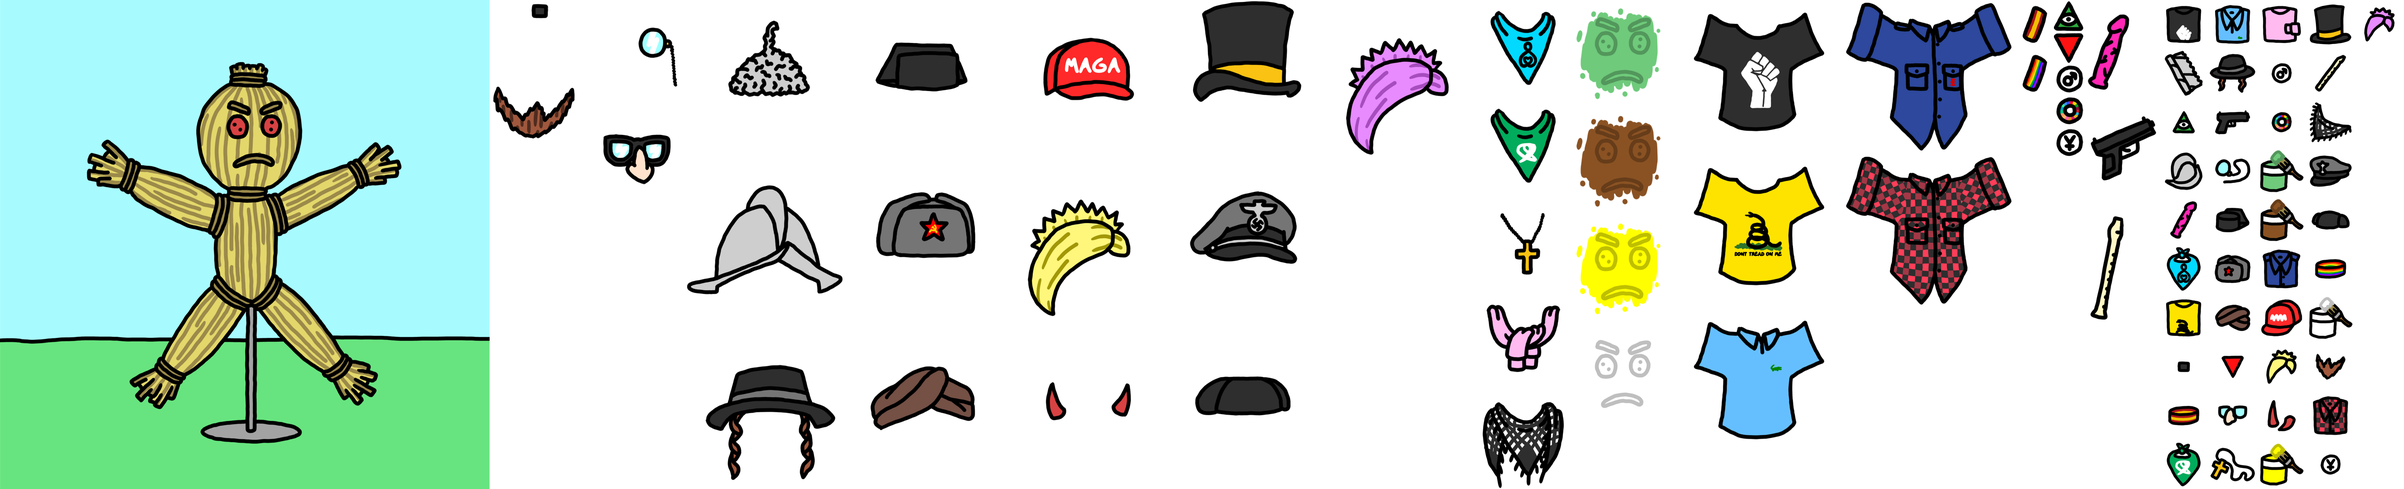
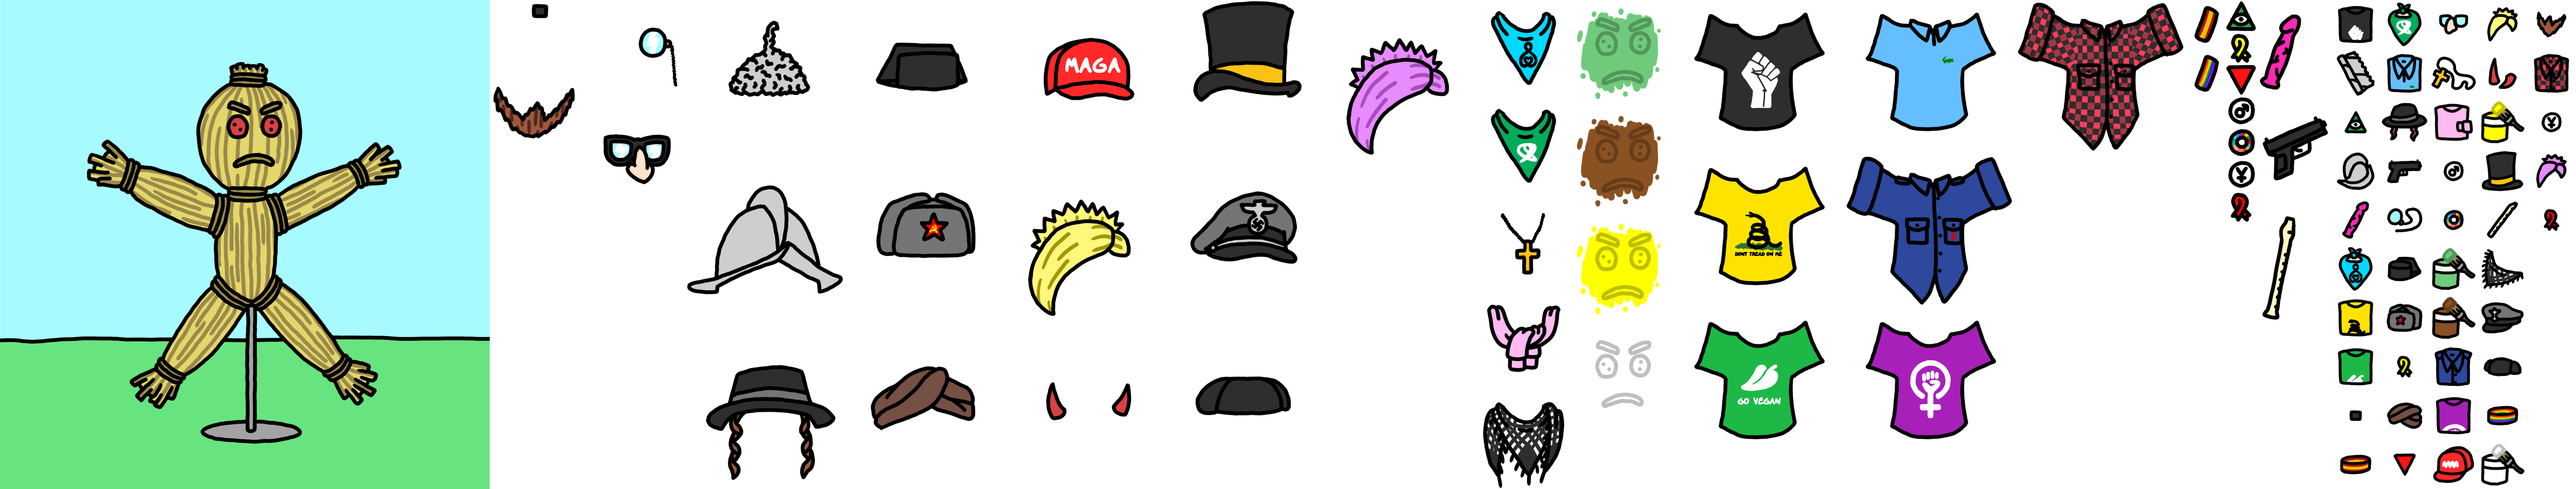
New accessories

diff --git a/docs/static/js/main.b52066cb.chunk.js b/docs/static/js/main.b52066cb.chunk.js
@@ -1,0 +1,2 @@
+(this.webpackJsonpstrawman=this.webpackJsonpstrawman||[]).push([[0],[,function(e){e.exports=JSON.parse('{"2030":{"en":"2030","es":"2030"},"loading":{"en":"loading","es":"cargando"},"make":{"en":"make your own","es":"crea tu propio"},"by":{"en":"by","es":"por"},"make_at":{"en":"make your own at","es":"crea el tuyo propio en"},"strawman":{"en":"straw man","es":"hombre de paja"},"download":{"en":"download","es":"descargar"},"accessories":{"en":"accessories","es":"accesorios"},"head":{"en":"head","es":"cabeza"},"color":{"en":"skin color","es":"tono de piel"},"glasses":{"en":"glasses","es":"gafas"},"neck":{"en":"neck","es":"cuello"},"bracelets":{"en":"bracelets","es":"pulseras"},"badges":{"en":"badges","es":"pines"},"hand":{"en":"hand","es":"mano"},"chest":{"en":"chest","es":"pecho"},"mouth":{"en":"mouth","es":"boca"},"spain":{"en":"Spain","es":"Espa\xf1a"},"lgbt":{"en":"LGBTIQ+","es":"LGBTIQ+"},"illuminati":{"en":"Illuminati","es":"Illuminati"},"yunque":{"en":"El Yunque","es":"El Yunque"},"male":{"en":"male","es":"hombre"},"red_triangle":{"en":"red triangle","es":"tri\xe1ngulo rojo"},"red_ribbon":{"en":"red ribbon","es":"lazo rojo"},"yellow_ribbon":{"en":"yellow ribbon","es":"lazo amarillo"},"prochoice":{"en":"pro-choice bandana","es":"pa\xf1uelo abortero"},"prolife":{"en":"pro-life bandana","es":"pa\xf1uelo provida"},"cross":{"en":"cross necklace","es":"colgante con cruz"},"nose":{"en":"glasses with nose","es":"gafas con nariz"},"monocle":{"en":"monocle","es":"mon\xf3culo"},"green":{"en":"green","es":"verde"},"white":{"en":"white","es":"blanco"},"yellow":{"en":"yellow","es":"amarillo"},"brown":{"en":"brown","es":"marr\xf3n"},"morion":{"en":"morion","es":"morri\xf3n"},"turban":{"en":"turban","es":"turbante"},"sideburns":{"en":"hat with sideburns","es":"gorro con patillas"},"commie":{"en":"communist hat","es":"gorro comunista"},"top":{"en":"top hat","es":"chistera"},"nazi":{"en":"nazi hat","es":"gorra nazi"},"maga":{"en":"MAGA hat","es":"gorra MAGA"},"tricornio":{"en":"tricornio","es":"tricornio"},"montera":{"en":"montera","es":"montera"},"pink_hair":{"en":"pink hair","es":"pelo rosa"},"blond_hair":{"en":"blond hair","es":"pelo rubio"},"horns":{"en":"horns","es":"cuernos"},"keffiyeh":{"en":"Palestinian keffiyeh","es":"palestina"},"sweater":{"en":"sweater","es":"jersey"},"tinfoil":{"en":"tinfoil","es":"papel de aluminio"},"flute":{"en":"flute","es":"flauta"},"dildo":{"en":"dildo","es":"consolador"},"gun":{"en":"gun","es":"pistola"},"blue_shirt":{"en":"blue shirt","es":"camisa azul"},"lumberjack":{"en":"lumberjack shirt","es":"camisa le\xf1ador"},"blm":{"en":"BLM T-shirt","es":"camiseta BLM"},"gadsden":{"en":"Gadsden T-shirt","es":"camiseta Gadsden"},"polo":{"en":"polo shirt","es":"polo"},"vegan":{"en":"vegan T-shirt","es":"camiseta vegana"},"feminism":{"en":"feminist T-shirt","es":"camiseta feminista"},"chaplin":{"en":"Chaplin moustache","es":"bigote de Chaplin"},"beard":{"en":"beard","es":"barba"}}')},,,,,,,,,function(e){e.exports=JSON.parse('{"head":{"turban":{"w":325,"x":1725,"t":{"w":100,"x":4860,"h":100,"y":800},"h":330,"y":660},"horns":{"w":325,"x":2050,"t":{"w":100,"x":5060,"h":100,"y":100},"h":330,"y":660},"montera":{"w":325,"x":2375,"t":{"w":100,"x":5060,"h":100,"y":700},"h":330,"y":660},"pink_hair":{"w":325,"x":2700,"t":{"w":100,"x":5160,"h":100,"y":300},"h":330,"y":0},"tricornio":{"w":325,"x":1725,"t":{"w":100,"x":4860,"h":100,"y":500},"h":330,"y":0},"commie":{"w":325,"x":1725,"t":{"w":100,"x":4860,"h":100,"y":600},"h":330,"y":330},"sideburns":{"w":325,"x":1400,"t":{"w":100,"x":4860,"h":100,"y":200},"h":330,"y":660},"nazi":{"w":325,"x":2375,"t":{"w":100,"x":5060,"h":100,"y":600},"h":330,"y":330},"blond_hair":{"w":325,"x":2050,"t":{"w":100,"x":5060,"h":100,"y":0},"h":330,"y":330},"top":{"w":325,"x":2375,"t":{"w":100,"x":5060,"h":100,"y":300},"h":330,"y":0},"tinfoil":{"w":325,"x":1400,"t":{"w":100,"x":4760,"h":100,"y":100},"h":330,"y":0},"morion":{"w":325,"x":1400,"t":{"w":100,"x":4760,"h":100,"y":300},"h":330,"y":330},"maga":{"w":325,"x":2050,"t":{"w":100,"x":4960,"h":100,"y":900},"h":330,"y":0}},"color":{"yellow":{"w":220,"x":3195,"t":{"w":100,"x":5060,"h":100,"y":200},"h":220,"y":440},"brown":{"w":220,"x":3195,"t":{"w":100,"x":4960,"h":100,"y":600},"h":220,"y":220},"white":{"w":220,"x":3195,"t":{"w":100,"x":5060,"h":100,"y":900},"h":220,"y":660},"green":{"w":220,"x":3195,"t":{"w":100,"x":4960,"h":100,"y":500},"h":220,"y":0}},"hand":{"gun":{"w":150,"x":4610,"t":{"w":100,"x":4860,"h":100,"y":300},"h":220,"y":220},"dildo":{"w":150,"x":4610,"t":{"w":100,"x":4760,"h":100,"y":400},"h":220,"y":0},"flute":{"w":150,"x":4610,"t":{"w":100,"x":5060,"h":100,"y":400},"h":220,"y":440}},"glasses":{"monocle":{"w":220,"x":1180,"t":{"w":100,"x":4860,"h":100,"y":400},"h":220,"y":0},"nose":{"w":220,"x":1180,"t":{"w":100,"x":4960,"h":100,"y":0},"h":220,"y":220}},"neck":{"keffiyeh":{"w":170,"x":3025,"t":{"w":100,"x":5060,"h":100,"y":500},"h":200,"y":800},"sweater":{"w":170,"x":3025,"t":{"w":100,"x":4960,"h":100,"y":200},"h":200,"y":600},"cross":{"w":170,"x":3025,"t":{"w":100,"x":4960,"h":100,"y":100},"h":200,"y":400},"prolife":{"w":170,"x":3025,"t":{"w":100,"x":4760,"h":100,"y":500},"h":200,"y":0},"prochoice":{"w":170,"x":3025,"t":{"w":100,"x":4860,"h":100,"y":0},"h":200,"y":200}},"mouth":{"beard":{"w":180,"x":1000,"t":{"w":100,"x":5160,"h":100,"y":0},"h":145,"y":145},"chaplin":{"w":180,"x":1000,"t":{"w":100,"x":4760,"h":100,"y":800},"h":145,"y":0}},"strawman":{"w":1000,"x":0,"h":1000,"y":0},"chest":{"blm":{"w":350,"x":3415,"t":{"w":100,"x":4760,"h":100,"y":0},"h":315,"y":0},"blue_shirt":{"w":350,"x":3765,"t":{"w":100,"x":4960,"h":100,"y":700},"h":315,"y":315},"feminism":{"w":350,"x":3765,"t":{"w":100,"x":4960,"h":100,"y":800},"h":315,"y":630},"gadsden":{"w":350,"x":3415,"t":{"w":100,"x":4760,"h":100,"y":600},"h":315,"y":315},"vegan":{"w":350,"x":3415,"t":{"w":100,"x":4760,"h":100,"y":700},"h":315,"y":630},"lumberjack":{"w":350,"x":4115,"t":{"w":100,"x":5160,"h":100,"y":100},"h":315,"y":0},"polo":{"w":350,"x":3765,"t":{"w":100,"x":4860,"h":100,"y":100},"h":315,"y":0}},"badges":{"2030":{"w":65,"x":4545,"t":{"w":100,"x":4960,"h":100,"y":400},"h":65,"y":260},"male":{"w":65,"x":4545,"t":{"w":100,"x":4960,"h":100,"y":300},"h":65,"y":195},"red_triangle":{"w":65,"x":4545,"t":{"w":100,"x":4860,"h":100,"y":900},"h":65,"y":130},"yellow_ribbon":{"w":65,"x":4545,"t":{"w":100,"x":4860,"h":100,"y":700},"h":65,"y":65},"red_ribbon":{"w":65,"x":4545,"t":{"w":100,"x":5160,"h":100,"y":400},"h":65,"y":390},"illuminati":{"w":65,"x":4545,"t":{"w":100,"x":4760,"h":100,"y":200},"h":65,"y":0},"yunque":{"w":65,"x":4545,"t":{"w":100,"x":5160,"h":100,"y":200},"h":65,"y":325}},"bracelets":{"lgbt":{"w":80,"x":4465,"t":{"w":100,"x":5060,"h":100,"y":800},"h":100,"y":100},"spain":{"w":80,"x":4465,"t":{"w":100,"x":4760,"h":100,"y":900},"h":100,"y":0}}}')},,,function(e){e.exports=JSON.parse('{"head":{"x":340,"y":10,"w":325,"h":330,"z":8},"color":{"x":400,"y":170,"w":220,"h":220,"z":5},"mouth":{"x":420,"y":280,"w":180,"h":145,"z":6},"glasses":{"x":400,"y":170,"w":220,"h":220,"z":7},"neck":{"x":420,"y":355,"w":170,"h":200,"z":1},"bracelets":{"x":225,"y":310,"w":80,"h":100,"z":2},"badges":{"x":515,"y":395,"w":65,"h":65,"z":3},"hand":{"x":715,"y":230,"w":150,"h":220,"z":4},"chest":{"x":330,"y":345,"w":350,"h":315,"z":0}}')},,,,,,function(e,t,a){},function(e,t,a){},function(e,t,a){},,function(e,t,a){},function(e,t,a){},function(e,t,a){"use strict";a.r(t);var n=a(2),s=a.n(n),r=a(11),i=a.n(r),o=(a(19),a(3)),h=a(4),c=a(6),l=a(5),d=(a(20),a(14)),w=a(12),p=(a(21),function e(t){Object(o.a)(this,e),this.x=t.x,this.y=t.y,this.w=t.w,this.h=t.h}),u=function e(t,a,n,s){Object(o.a)(this,e),this.selected=!1,this.name=t,this.category=a,this.origin=new p(n),this.destination=new p(s),this.order=s.z,this.thumbnail=new p(n.t)},y=a(1),m=a(0),x=function(e){Object(c.a)(a,e);var t=Object(l.a)(a);function a(e){var s;return Object(o.a)(this,a),(s=t.call(this,e)).side=s.props.strawman.h,s.canvas=Object(n.createRef)(),s.maxScaleFactor=.7,s.state={scaleFactor:s.getScaleFactor()},s}return Object(h.a)(a,[{key:"componentDidMount",value:function(){var e=this;window.addEventListener("resize",(function(){e.setState({scaleFactor:e.getScaleFactor()})})),this.drawCanvas()}},{key:"componentDidUpdate",value:function(){this.drawCanvas()}},{key:"render",value:function(){var e=this;return Object(m.jsxs)("div",{className:"canvas-component",children:[Object(m.jsxs)("h1",{children:[Object(m.jsx)("div",{children:y.make[this.props.lang].capitalize()}),Object(m.jsx)("div",{children:y.strawman[this.props.lang].toUpperCase()}),Object(m.jsxs)("div",{children:[y.by[this.props.lang]," ",Object(m.jsx)("a",{href:"/",target:"_blank",children:"progredemente"})]})]}),Object(m.jsx)("canvas",{ref:this.canvas,width:this.side*this.state.scaleFactor,height:this.side*this.state.scaleFactor}),Object(m.jsx)("div",{className:"download",onClick:function(){e.downloadImage()},children:y.download[this.props.lang].capitalize()})]})}},{key:"drawCanvas",value:function(){var e=this.getTempCanvas(),t=this.canvas.current.getContext("2d");t.clearRect(0,0,this.side*this.state.scaleFactor,this.side*this.state.scaleFactor),t.drawImage(e,0,0,this.side*this.state.scaleFactor,this.side*this.state.scaleFactor)}},{key:"getTempCanvas",value:function(){var e=document.createElement("canvas");e.width=this.side,e.height=this.side;var t=e.getContext("2d");return this.drawImage(this.props.strawman,this.props.strawman,t),this.drawWardrobe(this.props.wardrobe,t),this.drawUrl(t),e}},{key:"drawWardrobe",value:function(e,t){var a,n=Object(w.a)(this.getClothes(e).sort((function(e,t){return e.order-t.order})));try{for(n.s();!(a=n.n()).done;){var s=a.value;this.drawImage(s.origin,s.destination,t)}}catch(r){n.e(r)}finally{n.f()}}},{key:"getClothes",value:function(e){var t=[];for(var a in e)e[a]instanceof u?e[a].selected&&t.push(e[a]):t.push.apply(t,Object(d.a)(this.getClothes(e[a])));return t}},{key:"drawImage",value:function(e,t,a){a.drawImage(this.props.img,e.x,e.y,e.w,e.h,t.x,t.y,t.w,t.h)}},{key:"drawUrl",value:function(e){e.font="40px ComicTypo",e.textAlign="center",e.globalAlpha=.25,e.fillText(y.make_at[this.props.lang].capitalize(),this.side/2,this.side-60),e.fillText("https://progredemente.com/strawman",this.side/2,this.side-20)}},{key:"downloadImage",value:function(){var e=document.createElement("a");e.download="strawman.png",this.getTempCanvas().toBlob((function(t){var a=URL.createObjectURL(t);e.href=a,e.click()}))}},{key:"getScaleFactor",value:function(){return window.innerWidth<this.side*this.maxScaleFactor?window.innerWidth/this.side:this.maxScaleFactor}}]),a}(n.Component),b=(a(23),a(24),function(e){Object(c.a)(a,e);var t=Object(l.a)(a);function a(){return Object(o.a)(this,a),t.apply(this,arguments)}return Object(h.a)(a,[{key:"render",value:function(){var e=this;return Object(m.jsxs)("div",{className:"garment".concat(this.props.garment.selected?" selected":""),onClick:function(){e.props.selectGarment(e.props.garment)},children:[Object(m.jsx)("img",{src:"./merge.png",style:{"--x":"".concat(this.props.garment.thumbnail.x,"px"),"--y":"".concat(this.props.garment.thumbnail.y,"px"),"--w":"".concat(this.props.garment.thumbnail.w,"px"),"--h":"".concat(this.props.garment.thumbnail.h,"px")},alt:y[this.props.garment.name][this.props.lang]}),Object(m.jsx)("figcaption",{children:y[this.props.garment.name][this.props.lang]})]})}}]),a}(n.Component)),g=b,f=function(e){Object(c.a)(a,e);var t=Object(l.a)(a);function a(){return Object(o.a)(this,a),t.apply(this,arguments)}return Object(h.a)(a,[{key:"render",value:function(){var e=this;return Object(m.jsxs)("div",{className:"wardrobe",children:[Object(m.jsx)("h1",{children:y.accessories[this.props.lang].capitalize()}),Object.keys(this.props.wardrobe).map((function(t){return Object(m.jsxs)("div",{className:"category",children:[Object(m.jsx)("span",{children:y[t][e.props.lang].capitalize()}),Object(m.jsx)("div",{className:"content",children:Object.keys(e.props.wardrobe[t]).map((function(a){return Object(m.jsx)(g,{garment:e.props.wardrobe[t][a],selectGarment:e.props.selectGarment,lang:e.props.lang},a)}))})]},t)}))]})}}]),a}(n.Component),j=f,v=a(10),O=a(13),k=function(e){Object(c.a)(a,e);var t=Object(l.a)(a);function a(e){var n,s;Object(o.a)(this,a),(n=t.call(this,e)).selectGarment=function(e){if(!e.selected)for(var t in e.category){var a=e.category[t];a!==e&&(a.selected=!1)}e.selected=!e.selected,n.setState({})};try{s=navigator.language.toLowerCase().split("-")[0]}catch(r){}return["en","es"].includes(s)||(s="en"),n.state={wardrobe:n.getWardrobe(v,O),lang:s,loaded:!1},n}return Object(h.a)(a,[{key:"componentDidMount",value:function(){var e=this;this.img=new Image,this.img.src="./merge.png",this.img.onload=function(){e.setState({loaded:!0})}}},{key:"getWardrobe",value:function(e,t){var a={};for(var n in e)if("strawman"!==n)for(var s in a[n]={},e[n])a[n][s]=new u(s,a[n],e[n][s],t[n]);return a}},{key:"render",value:function(){return Object(m.jsxs)(m.Fragment,{children:[this.state.loaded&&Object(m.jsxs)("div",{className:"app",children:[Object(m.jsx)(x,{wardrobe:this.state.wardrobe,strawman:new p(v.strawman),lang:this.state.lang,img:this.img}),Object(m.jsx)(j,{wardrobe:this.state.wardrobe,selectGarment:this.selectGarment,lang:this.state.lang})]}),!this.state.loaded&&Object(m.jsxs)("div",{className:"loading",children:[Object(m.jsx)("img",{src:"./favicon.png",alt:y.loading[this.state.lang]}),y.loading[this.state.lang]]})]})}}]),a}(n.Component),z=function(e){e&&e instanceof Function&&a.e(3).then(a.bind(null,26)).then((function(t){var a=t.getCLS,n=t.getFID,s=t.getFCP,r=t.getLCP,i=t.getTTFB;a(e),n(e),s(e),r(e),i(e)}))};String.prototype.capitalize=function(){return this[0].toUpperCase()+this.substr(1,this.length)},i.a.render(Object(m.jsx)(s.a.StrictMode,{children:Object(m.jsx)(k,{})}),document.getElementById("root")),z()}],[[25,1,2]]]);
+//# sourceMappingURL=main.b52066cb.chunk.js.map

diff --git a/docs/index.html b/docs/index.html
@@ -1,1 +1,1 @@
-<!doctype html><html lang="en"><head><meta charset="utf-8"/><link rel="icon" href="./favicon.png"/><meta name="viewport" content="width=device-width,initial-scale=1"/><meta name="theme-color" content="#000000"/><meta name="description" content="Web site created using create-react-app"/><link rel="apple-touch-icon" href="./logo192.png"/><link rel="manifest" href="./manifest.json"/><title>Straw man</title><link href="./static/css/main.2544bd09.chunk.css" rel="stylesheet"></head><body><noscript>You need to enable JavaScript to run this app.</noscript><div id="root"></div><script>!function(e){function r(r){for(var n,a,i=r[0],c=r[1],l=r[2],s=0,p=[];s<i.length;s++)a=i[s],Object.prototype.hasOwnProperty.call(o,a)&&o[a]&&p.push(o[a][0]),o[a]=0;for(n in c)Object.prototype.hasOwnProperty.call(c,n)&&(e[n]=c[n]);for(f&&f(r);p.length;)p.shift()();return u.push.apply(u,l||[]),t()}function t(){for(var e,r=0;r<u.length;r++){for(var t=u[r],n=!0,i=1;i<t.length;i++){var c=t[i];0!==o[c]&&(n=!1)}n&&(u.splice(r--,1),e=a(a.s=t[0]))}return e}var n={},o={1:0},u=[];function a(r){if(n[r])return n[r].exports;var t=n[r]={i:r,l:!1,exports:{}};return e[r].call(t.exports,t,t.exports,a),t.l=!0,t.exports}a.e=function(e){var r=[],t=o[e];if(0!==t)if(t)r.push(t[2]);else{var n=new Promise((function(r,n){t=o[e]=[r,n]}));r.push(t[2]=n);var u,i=document.createElement("script");i.charset="utf-8",i.timeout=120,a.nc&&i.setAttribute("nonce",a.nc),i.src=function(e){return a.p+"static/js/"+({}[e]||e)+"."+{3:"6449b234"}[e]+".chunk.js"}(e);var c=new Error;u=function(r){i.onerror=i.onload=null,clearTimeout(l);var t=o[e];if(0!==t){if(t){var n=r&&("load"===r.type?"missing":r.type),u=r&&r.target&&r.target.src;c.message="Loading chunk "+e+" failed.\n("+n+": "+u+")",c.name="ChunkLoadError",c.type=n,c.request=u,t[1](c)}o[e]=void 0}};var l=setTimeout((function(){u({type:"timeout",target:i})}),12e4);i.onerror=i.onload=u,document.head.appendChild(i)}return Promise.all(r)},a.m=e,a.c=n,a.d=function(e,r,t){a.o(e,r)||Object.defineProperty(e,r,{enumerable:!0,get:t})},a.r=function(e){"undefined"!=typeof Symbol&&Symbol.toStringTag&&Object.defineProperty(e,Symbol.toStringTag,{value:"Module"}),Object.defineProperty(e,"__esModule",{value:!0})},a.t=function(e,r){if(1&r&&(e=a(e)),8&r)return e;if(4&r&&"object"==typeof e&&e&&e.__esModule)return e;var t=Object.create(null);if(a.r(t),Object.defineProperty(t,"default",{enumerable:!0,value:e}),2&r&&"string"!=typeof e)for(var n in e)a.d(t,n,function(r){return e[r]}.bind(null,n));return t},a.n=function(e){var r=e&&e.__esModule?function(){return e.default}:function(){return e};return a.d(r,"a",r),r},a.o=function(e,r){return Object.prototype.hasOwnProperty.call(e,r)},a.p="./",a.oe=function(e){throw console.error(e),e};var i=this.webpackJsonpstrawman=this.webpackJsonpstrawman||[],c=i.push.bind(i);i.push=r,i=i.slice();for(var l=0;l<i.length;l++)r(i[l]);var f=c;t()}([])</script><script src="./static/js/2.81d7165c.chunk.js"></script><script src="./static/js/main.888ffe23.chunk.js"></script></body></html>
+<!doctype html><html lang="en"><head><meta charset="utf-8"/><link rel="icon" href="./favicon.png"/><meta name="viewport" content="width=device-width,initial-scale=1"/><meta name="theme-color" content="#000000"/><meta name="description" content="Web site created using create-react-app"/><link rel="apple-touch-icon" href="./logo192.png"/><link rel="manifest" href="./manifest.json"/><title>Straw man</title><link href="./static/css/main.2544bd09.chunk.css" rel="stylesheet"></head><body><noscript>You need to enable JavaScript to run this app.</noscript><div id="root"></div><script>!function(e){function r(r){for(var n,a,i=r[0],c=r[1],l=r[2],s=0,p=[];s<i.length;s++)a=i[s],Object.prototype.hasOwnProperty.call(o,a)&&o[a]&&p.push(o[a][0]),o[a]=0;for(n in c)Object.prototype.hasOwnProperty.call(c,n)&&(e[n]=c[n]);for(f&&f(r);p.length;)p.shift()();return u.push.apply(u,l||[]),t()}function t(){for(var e,r=0;r<u.length;r++){for(var t=u[r],n=!0,i=1;i<t.length;i++){var c=t[i];0!==o[c]&&(n=!1)}n&&(u.splice(r--,1),e=a(a.s=t[0]))}return e}var n={},o={1:0},u=[];function a(r){if(n[r])return n[r].exports;var t=n[r]={i:r,l:!1,exports:{}};return e[r].call(t.exports,t,t.exports,a),t.l=!0,t.exports}a.e=function(e){var r=[],t=o[e];if(0!==t)if(t)r.push(t[2]);else{var n=new Promise((function(r,n){t=o[e]=[r,n]}));r.push(t[2]=n);var u,i=document.createElement("script");i.charset="utf-8",i.timeout=120,a.nc&&i.setAttribute("nonce",a.nc),i.src=function(e){return a.p+"static/js/"+({}[e]||e)+"."+{3:"6449b234"}[e]+".chunk.js"}(e);var c=new Error;u=function(r){i.onerror=i.onload=null,clearTimeout(l);var t=o[e];if(0!==t){if(t){var n=r&&("load"===r.type?"missing":r.type),u=r&&r.target&&r.target.src;c.message="Loading chunk "+e+" failed.\n("+n+": "+u+")",c.name="ChunkLoadError",c.type=n,c.request=u,t[1](c)}o[e]=void 0}};var l=setTimeout((function(){u({type:"timeout",target:i})}),12e4);i.onerror=i.onload=u,document.head.appendChild(i)}return Promise.all(r)},a.m=e,a.c=n,a.d=function(e,r,t){a.o(e,r)||Object.defineProperty(e,r,{enumerable:!0,get:t})},a.r=function(e){"undefined"!=typeof Symbol&&Symbol.toStringTag&&Object.defineProperty(e,Symbol.toStringTag,{value:"Module"}),Object.defineProperty(e,"__esModule",{value:!0})},a.t=function(e,r){if(1&r&&(e=a(e)),8&r)return e;if(4&r&&"object"==typeof e&&e&&e.__esModule)return e;var t=Object.create(null);if(a.r(t),Object.defineProperty(t,"default",{enumerable:!0,value:e}),2&r&&"string"!=typeof e)for(var n in e)a.d(t,n,function(r){return e[r]}.bind(null,n));return t},a.n=function(e){var r=e&&e.__esModule?function(){return e.default}:function(){return e};return a.d(r,"a",r),r},a.o=function(e,r){return Object.prototype.hasOwnProperty.call(e,r)},a.p="./",a.oe=function(e){throw console.error(e),e};var i=this.webpackJsonpstrawman=this.webpackJsonpstrawman||[],c=i.push.bind(i);i.push=r,i=i.slice();for(var l=0;l<i.length;l++)r(i[l]);var f=c;t()}([])</script><script src="./static/js/2.81d7165c.chunk.js"></script><script src="./static/js/main.b52066cb.chunk.js"></script></body></html>
